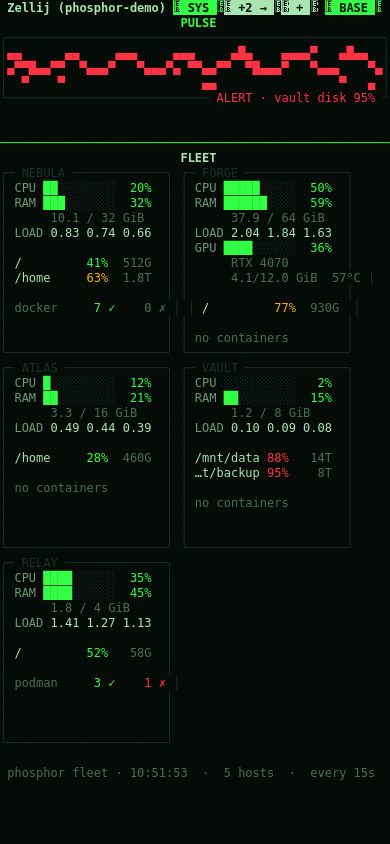
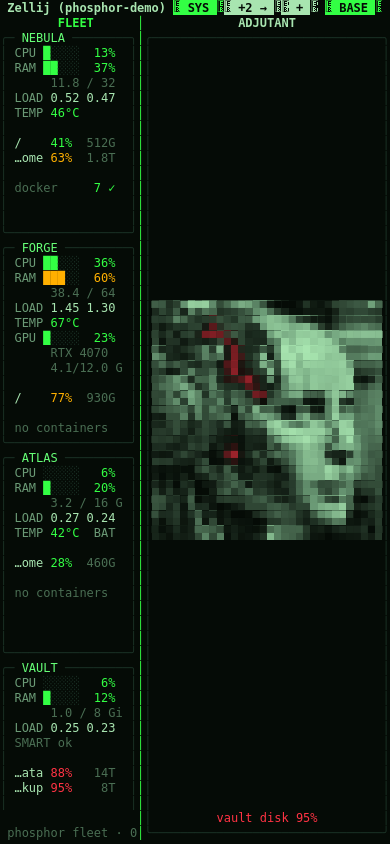
1.2.18 — fleet fits a phone

diff --git a/lib/fleet.py b/lib/fleet.py
@@ -378,7 +378,7 @@ def card(name, w, d):
             err += "  (%.1fs)" % (d["ms"] / 1000.0)
         body = [RED + "unreachable" + RST, DIM + err + RST]
     else:
-        bw = max(6, min(18, inner - 10))
+        bw = max(3, min(18, inner - 10))
         cpu = d.get("CPU", 0)
         body.append(MUTE + "CPU " + RST + bar(cpu, bw) + " " + pctc(cpu))
         mu, mt = d.get("MEMU", 0), d.get("MEMT", 1) or 1
@@ -506,6 +506,36 @@ def move(sel, k, per_row, n):
     step = {"\x1b[C": 1, "\t": 1, "\x1b[D": -1, "\x1b[B": per_row, "\x1b[A": -per_row}.get(k, 0)
     j = sel + step
     return j if 0 <= j < n else sel
+
+def grid(cols, rows, state, sel=None):
+    """The cards, laid out for a pane cols x rows: (lines, card width,
+    cards per row, card height). No line is wider than the pane."""
+    n, gap = len(HOSTS), 1
+    # never wider than the pane: zellij wraps a longer line, and a
+    # phone's SYS (the adjutant beside fleet) can leave it ~20 columns
+    cw = min(cols, 40, max(24, (cols - (n-1)*gap) // n))
+    raw = [card(h[0], cw, state.get(h[0])) for h in HOSTS]
+    bh = max(len(b) for _, b in raw)
+    inner = cw - 4
+    cards = []
+    for i, (head, body) in enumerate(raw):
+        edge = BLOOM if i == sel else RULE      # the picked card's border lights up
+        body = body + [""]*(bh - len(body))
+        c = [head.replace(RULE, edge, 1)]
+        for b in body:
+            c.append(edge + "│" + RST + " " + pad(vcut(b, inner), inner) + " " + edge + "│" + RST)
+        c.append(edge + "╰" + "─"*(cw-2) + "╯" + RST)
+        cards.append(c)
+    per_row = max(1, (cols + gap) // (cw + gap))
+    h = len(cards[0])
+    out = []
+    for i in range(0, n, per_row):
+        grp = cards[i:i+per_row]
+        for r in range(h):
+            out.append((" "*gap).join(g[r] for g in grp))
+    # Never more lines than the pane has: with many machines the
+    # cards get cut at the bottom but the footer stays visible.
+    return [vcut(o, cols) for o in out[:max(0, rows - 2)]], cw, per_row, h
 
 def footer(n, sel, msg):
     """The bottom line, and {column range: key} for tapping its hints."""
@@ -646,37 +676,14 @@ def main():
                 rust_poller.tick()
             cols, rows = shutil.get_terminal_size((80, 24))
             n, gap = len(HOSTS), 1
-            cw = min(40, max(24, (cols - (n-1)*gap) // n))
-            state = read_state()
-            raw = [card(h[0], cw, state.get(h[0])) for h in HOSTS]
-            bh = max(len(b) for _, b in raw)
-            inner = cw - 4
             if sel is not None and sel >= n:
                 sel = None
-            cards = []
-            for i, (head, body) in enumerate(raw):
-                edge = BLOOM if i == sel else RULE      # the picked card's border lights up
-                body = body + [""]*(bh - len(body))
-                c = [head.replace(RULE, edge, 1)]
-                for b in body:
-                    c.append(edge + "│" + RST + " " + pad(b, inner) + " " + edge + "│" + RST)
-                c.append(edge + "╰" + "─"*(cw-2) + "╯" + RST)
-                cards.append(c)
-            per_row = max(1, (cols + gap) // (cw + gap))
-            h = len(cards[0])
-            out = []
-            for i in range(0, n, per_row):
-                grp = cards[i:i+per_row]
-                for r in range(h):
-                    out.append((" "*gap).join(g[r] for g in grp))
-            # Never more lines than the pane has: with many machines the
-            # cards get cut at the bottom but the footer stays visible.
-            out = out[:max(0, rows - 2)]
+            out, cw, per_row, h = grid(cols, rows, read_state(), sel)
             out.append("")
             if msg and time.time() > msg_until:
                 msg = ""
             line, taps = footer(n, sel, msg)
-            out.append(line)
+            out.append(vcut(line, cols))
             geo = (cw, gap, per_row, h, len(out))
             sys.stdout.write("\x1b[H" + "\x1b[K\n".join(out) + "\x1b[K\x1b[J")
             sys.stdout.flush()

diff --git a/tests/fleet-keys-check.py b/tests/fleet-keys-check.py
@@ -63,6 +63,23 @@ for (a, b), k in taps.items():
          shown.startswith("Esc" if k == "\x1b" else k))
 need("nothing picked: no hints to tap", fleet.footer(2, None, "")[1] == {})
 
+# grid(): no line wider than the pane, however narrow (a phone's SYS, with
+# the adjutant beside fleet, leaves it ~17 columns); zellij wraps a longer one
+import ui
+d = {"ok": True, "CPU": 37, "MEMU": 40300, "MEMT": 65536, "LOAD": "1.56 1.40 1.25",
+     "mnt": [["/mnt/backup", 95, "8T"]], "UP": "12d"}
+fleet.HOSTS = [("box", None), ("db-box", "db-box-alias"), ("nimbus", None)]
+for cols in (17, 30, 120):
+    lines, cw, per_row, h = fleet.grid(cols, 40, {"box": d, "db-box": d})
+    worst = max(ui.vlen(l) for l in lines)
+    need("grid at %d columns: lines fit (widest %d)" % (cols, worst), worst <= cols)
+    need("grid at %d columns: a card fits the pane" % cols, cw <= cols)
+need("a wide pane still puts the cards side by side", fleet.grid(120, 40, {})[2] == 3)
+need("vcut keeps the colors and cuts by what shows",
+     ui.vlen(ui.vcut(ui.RED + "abcdef" + ui.RST + "gh", 4)) == 4
+     and ui.vcut(ui.RED + "abcdef", 4).startswith(ui.RED + "abcd"))
+need("vcut leaves a short line alone", ui.vcut("abc", 9) == "abc")
+
 # the demo's machines aren't real: no tab, no ssh
 fleet.DEMO = True
 need("demo: refuses", "demo" in fleet.open_action("s", "box", None))

diff --git a/lib/ui.py b/lib/ui.py
@@ -59,6 +59,18 @@ OK, WARN, BAD = PH + "✓" + RST, AMB + "⚠" + RST, RED + "✗" + RST
 _ANSI = re.compile(r"\x1b\[[0-9;]*m")
 def vlen(s): return len(_ANSI.sub("", s))
 def pad(s, w): return s + " " * max(0, w - vlen(s))
+def vcut(s, w):
+    """s cut to w visible columns, its colors kept: a line that would
+    otherwise wrap in a pane narrower than it was drawn for."""
+    if vlen(s) <= w:
+        return s
+    out, n, i = [], 0, 0
+    for m in _ANSI.finditer(s):
+        take = s[i:m.start()][:max(0, w - n)]
+        out.append(take); n += len(take)
+        out.append(m.group()); i = m.end()
+    out.append(s[i:][:max(0, w - n)])
+    return "".join(out) + RST
 def width(cap=100): return min(shutil.get_terminal_size((80, 24)).columns, cap)
 
 def getkey(timeout=None, text=False):

diff --git a/README.md b/README.md
@@ -28,12 +28,13 @@ Every screenshot below is `phosphor demo`: a throwaway session over
 made-up machines and a made-up notebook, so a screenshot never carries a
 real IP, hostname or note.
 
-![The SYS tab: a pulse graph, the fleet panel, live pings](doc/img/readme/sys-p31.png)
+![The SYS tab: the fleet panel and the adjutant, warning that a disk is filling up](doc/img/readme/sys-p31.png)
 
 The same tab bar, on a phone-width screen: the fleet panel stacks into
-one column instead of a row.
+one column instead of a row, narrowing its cards to whatever room the
+adjutant leaves.
 
-![The SYS tab narrowed to a phone: cards stack in one column, tabs overflow into a menu](doc/img/readme/phone-p31.png)
+![The SYS tab narrowed to a phone: cards stack in one narrow column beside the adjutant, tabs overflow into a menu](doc/img/readme/phone-p31.png)
 
 And on an e-ink screen: the `paper` theme, black on white, no glow.
 

diff --git a/CHANGELOG.md b/CHANGELOG.md
@@ -6,6 +6,14 @@ before it updates.
 
 ## Unreleased
 
+## 1.2.18 — fleet fits a phone
+
+- FLEET no longer breaks its cards into wrapped lines on a narrow pane: on a phone, the adjutant
+  beside it in SYS leaves fleet ~20 columns, and a card used to keep 24 at least. Cards now
+  narrow to the pane, and a line too long for one is cut instead of spilling onto the next.
+- The README's screenshots show today's SYS tab (fleet and the adjutant), on a desktop, a phone
+  and the paper theme.
+
 ## 1.2.17 — screens kick over ssh
 
 - `phosphor screens`: `x` really kicks a screen that came in over ssh (a phone, another
